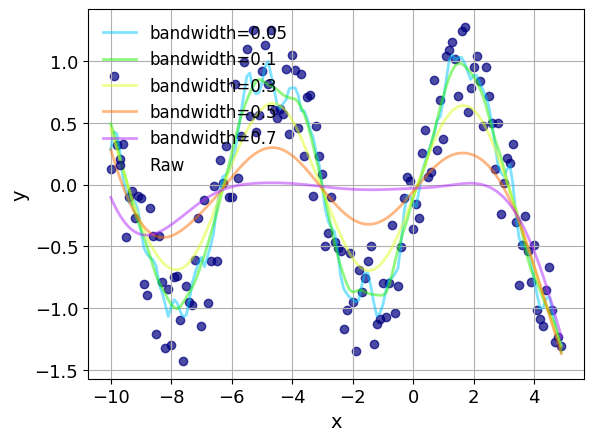
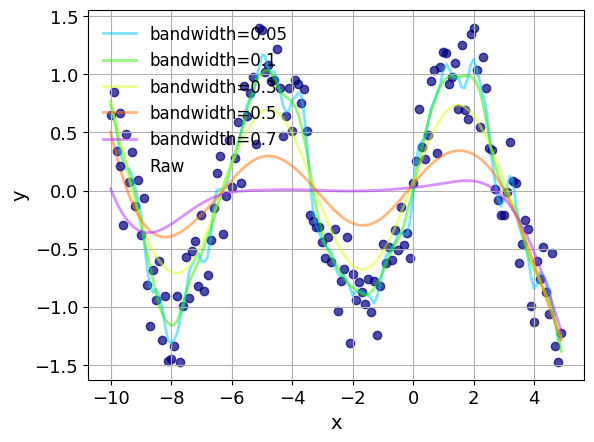
In examples seed the random numbers so that the exampels are reproducible.

Changed region(s): [[0.0606, 0.0, 1.0, 0.8844], [0.0909, 0.0295, 0.1515, 0.059], [0.0303, 0.4422, 0.0606, 0.4717]]

diff --git a/examples/lowess_by_polynomialDegree.py b/examples/lowess_by_polynomialDegree.py
@@ -58,6 +58,9 @@ if __name__ == "__main__":
     The higher order polynomials will over fit (high frequency oscillations.)
     '''
 
+    # seed the random number generator so results reproducible
+    np.random.seed((1, 2, 3))
+
     # Generate some noisy data
     x = np.arange(-10, 10, 0.1)
     y = 1.0 + 2.0 * x + 0.3 * x ** 2 + 20.0 * np.random.random(len(x))

diff --git a/examples/lowess_by_bandwidth.py b/examples/lowess_by_bandwidth.py
@@ -58,6 +58,9 @@ if __name__ == "__main__":
     The larger bandwidths will miss the oscillating signal.
     '''
 
+    # seed the random number generator so results reproducible
+    np.random.seed((1, 2, 3))
+
     # Generate some noisy data
     x = np.arange(-10, 5, 0.1)
     y = np.sin(x) - 0.5 + np.random.random(len(x))
